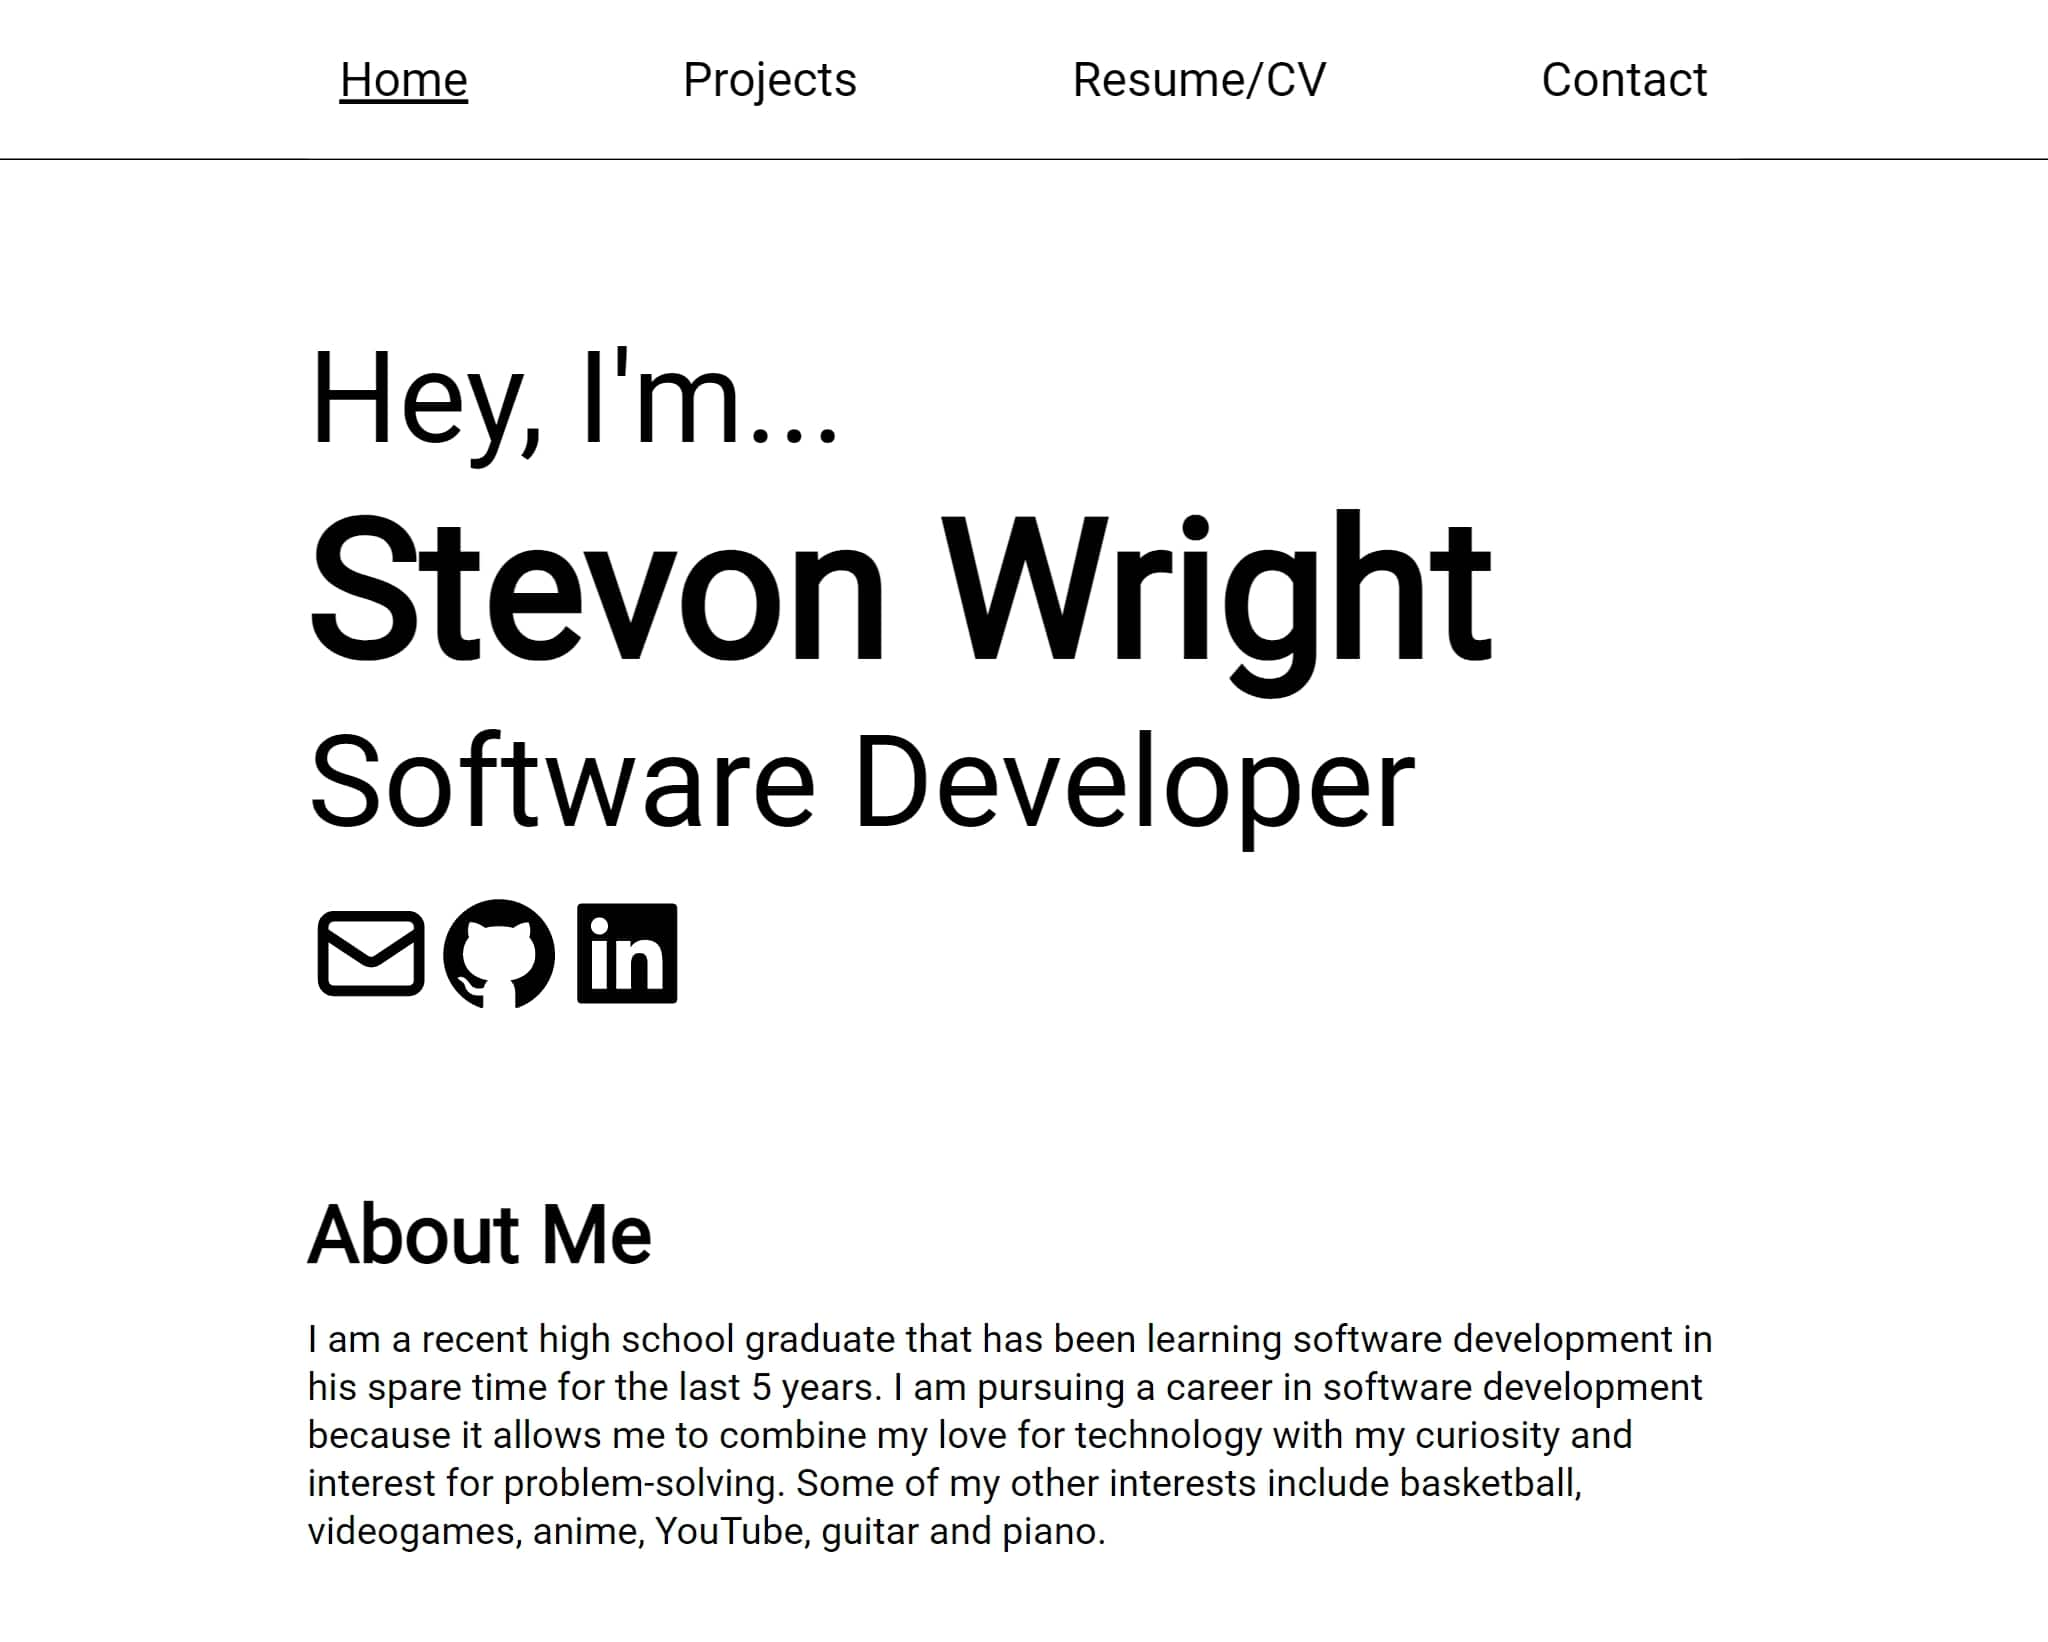
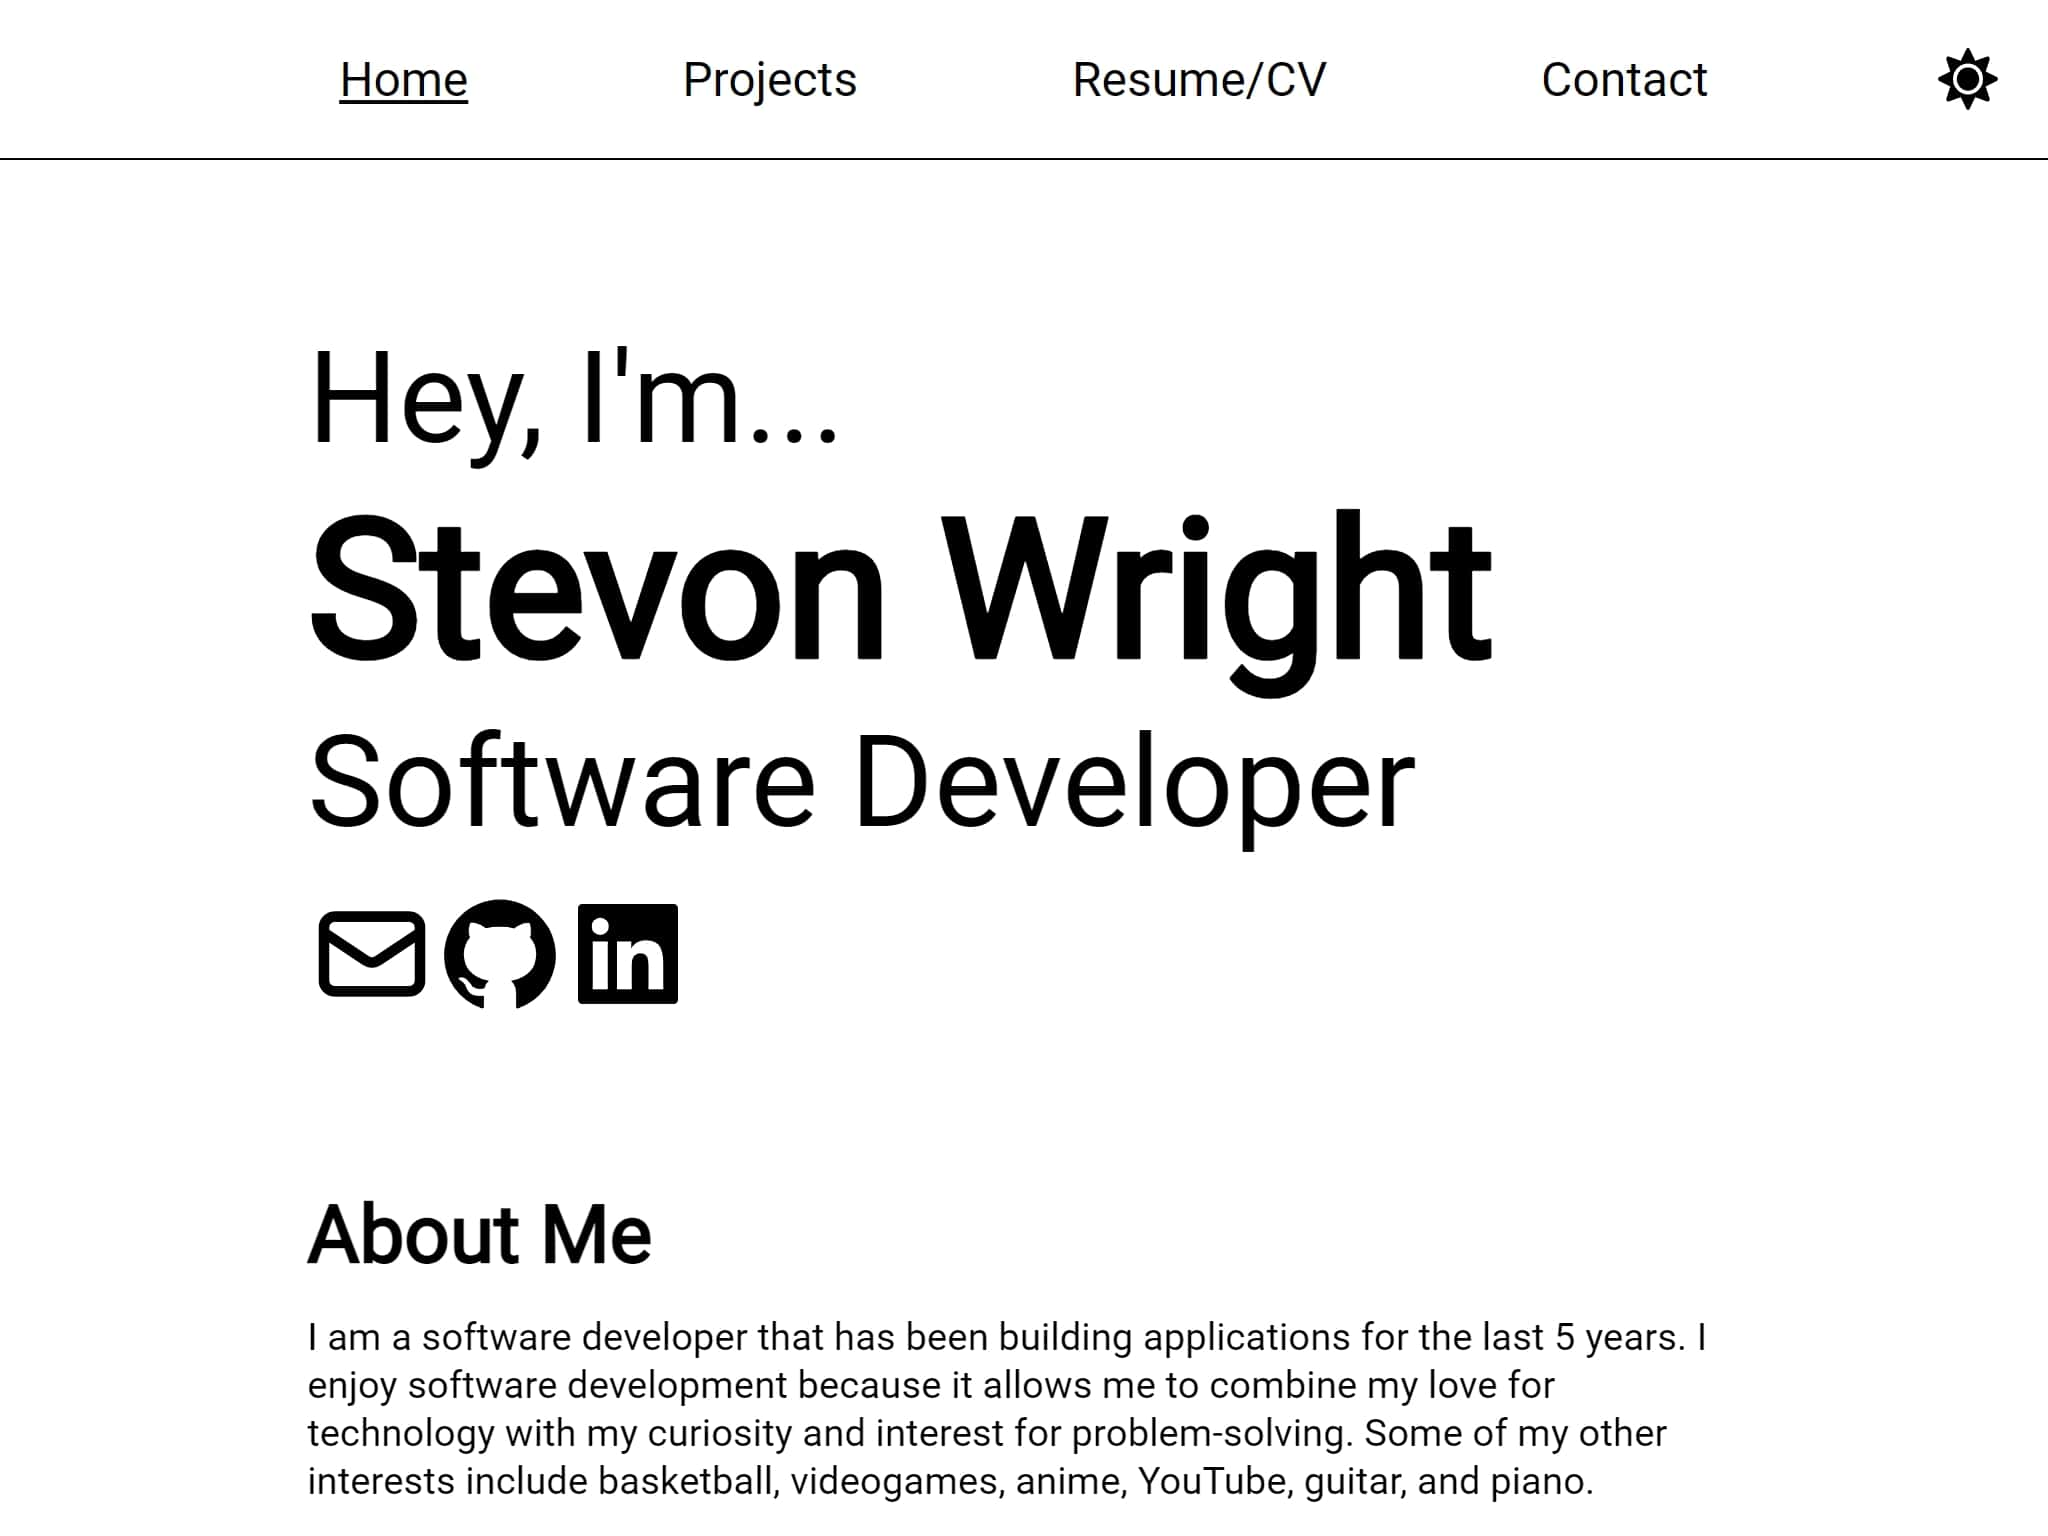
Changed portfolio site project and documentation pic, changed text in about me section

diff --git a/src/data/index.js b/src/data/index.js
@@ -15,7 +15,7 @@ import { AiFillGithub as GitHub } from "@react-icons/all-files/ai/AiFillGithub";
 const sections = {
     aboutMe: {
         title: "About Me",
-        text: "I am a recent high school graduate that has been learning software development in his spare time for the last 5 years. I am pursuing a career in software development because it allows me to combine my love for technology with my curiosity and interest for problem-solving. Some of my other interests include basketball, videogames, anime, YouTube, guitar and piano.",
+        text: "I am a software developer that has been building applications for the last 5 years. I enjoy software development because it allows me to combine my love for technology with my curiosity and interest for problem-solving. Some of my other interests include basketball, videogames, anime, YouTube, guitar, and piano.",
     },
     skills: {
         title: "Skills",
